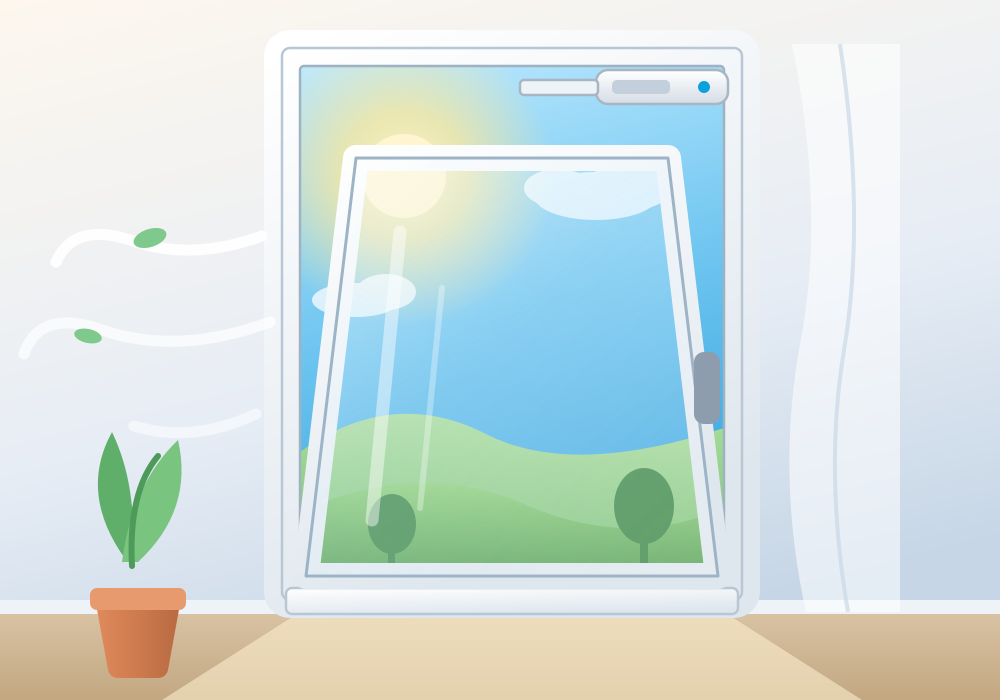
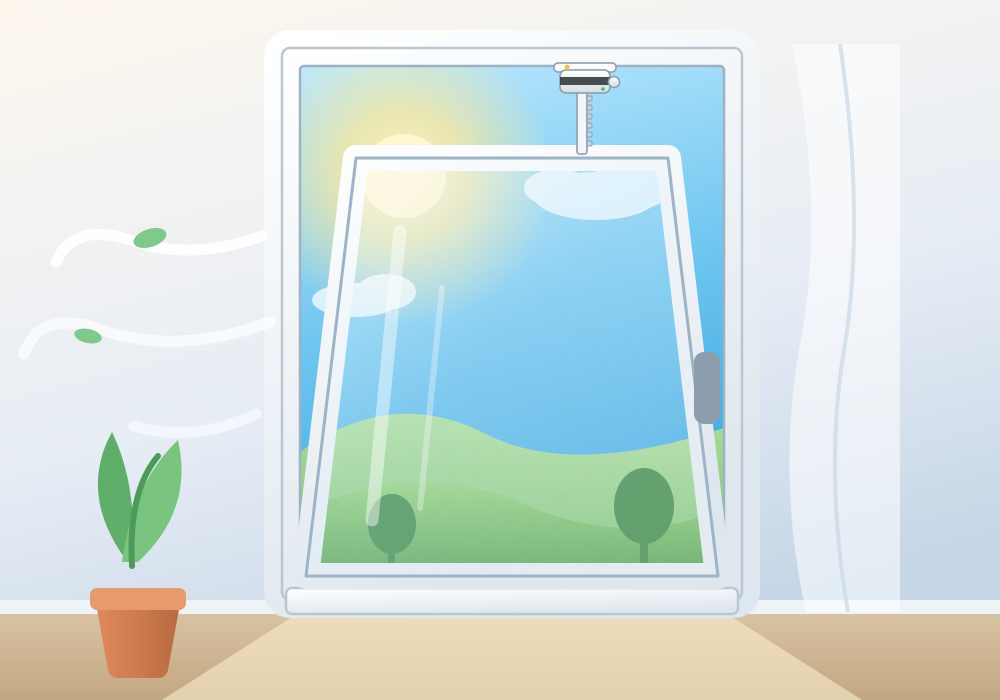
Use the real product photo, and draw the SMARWI as it mounts
The driver image is now the photograph of the device on white, which is
what the review asked for. The unit in the app image was redrawn from the
product photos: it is a small box on the frame, and the toothed ridge
runs from it down to the sash - drawn out, because the window is open.

The widget preview gained sky in the glass, a sun and status tiles. Still
only simple shapes and no text, as the guidelines require.

The artwork and the mounting photos are in the readme, where the ridge
also explains the position model.

Changed region(s): [[0.496, 0.09, 0.744, 0.21]]

diff --git a/_claude/artwork/driver-photo.js b/_claude/artwork/driver-photo.js
@@ -1,0 +1,40 @@
+/**
+ * Builds the driver images from the product photo: trimmed to the device and
+ * centred on a square white canvas, the way the App Store wants them.
+ * Author: Marian Lojka <marian.lojka@gmail.com>
+ */
+// Needs `npm i -g sharp` (or a local install); it is not a dependency of the app.
+const sharp = require('sharp');
+const path = require('path');
+
+const root = path.join(__dirname, '..', '..');
+const source = path.join(root, 'docs', 'vektiva-product.png');
+
+async function build(size, margin) {
+  const box = Math.round(size * (1 - margin * 2));
+
+  const device = await sharp(source)
+    .flatten({ background: '#ffffff' })
+    .trim({ background: '#ffffff', threshold: 12 })
+    .resize(box, box, { fit: 'inside' })
+    .toBuffer();
+
+  return sharp({
+    create: {
+      width: size, height: size, channels: 3, background: '#ffffff',
+    },
+  })
+    .composite([{ input: device, gravity: 'centre' }])
+    .png()
+    .toBuffer();
+}
+
+(async () => {
+  for (const size of [75, 500, 1000]) {
+    const buffer = await build(size, size === 75 ? 0.04 : 0.08);
+    const out = path.join(root, 'drivers/smarwi/assets/images',
+      size === 75 ? 'small.png' : size === 500 ? 'large.png' : 'xlarge.png');
+    await sharp(buffer).toFile(out);
+    console.log(`${out}  ${size}x${size}`);
+  }
+})();

diff --git a/README.md b/README.md
@@ -5,6 +5,11 @@ over your **local network**, with the **vektiva.online** cloud as an optional fa
 
 Author: Marian Lojka <marian.lojka@gmail.com> · MIT licence
 
+<p>
+  <img src="assets/images/large.png" width="420" alt="A room with the window tilted open by a SMARWI">
+  <img src="drivers/smarwi/assets/images/large.png" width="220" alt="The SMARWI unit with its ridge">
+</p>
+
 Submitted to the Homey App Store and currently in certification. Until it goes live it
 can be installed from the test channel:
 <https://homey.app/a/com.vektiva.smarwi/test/>
@@ -43,6 +48,13 @@ a second flat), or when the local route is temporarily down.
 | Status and control over MQTT | optional, see below |
 
 ### Window dashboard widget
+
+The App Store preview of the widget, light and dark:
+
+<p>
+  <img src="widgets/window/preview-light.png" width="200" alt="Widget preview, light">
+  <img src="widgets/window/preview-dark.png" width="200" alt="Widget preview, dark">
+</p>
 
 <p>
   <img src="docs/closed.png" width="290" alt="The Window widget with the window closed">
@@ -389,6 +401,17 @@ network rather than the LAN. The subnet therefore comes from
 `homey.cloud.getLocalAddress()`, and can be overridden in the app settings.
 
 ## Preparing the SMARWI
+
+The unit is mounted on the window **frame**; the toothed **ridge** is screwed to the
+**sash**. Opening the window draws the ridge out of the unit, which is also how the
+SMARWI measures the position - it counts revolutions from its frame sensor and has no
+absolute position sensor. That single fact explains the readiness flag, the trip through
+the frame on every reposition, and why the percentage is withheld after a Stop part way.
+
+<p>
+  <img src="docs/vektiva-product4.jpg" width="420" alt="The SMARWI on the frame with the ridge reaching the sash">
+  <img src="docs/vektiva-product3.jpg" width="420" alt="The ridge running through the unit, seen from inside">
+</p>
 
 In its web interface (Settings → Basic) set **Wifi Mode** to `Client`, pick your Wi-Fi
 network and enter the password. The cloud (`Remote ID` / `Remote KEY`) is not needed
